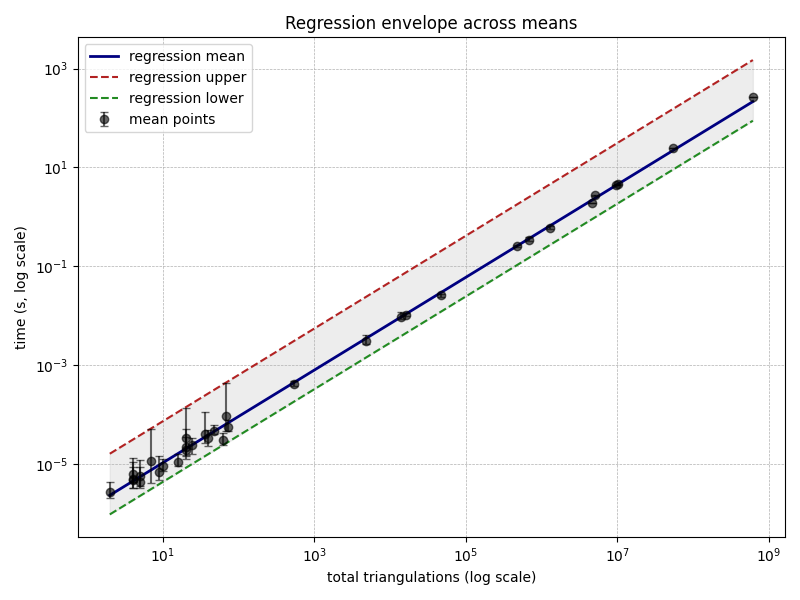
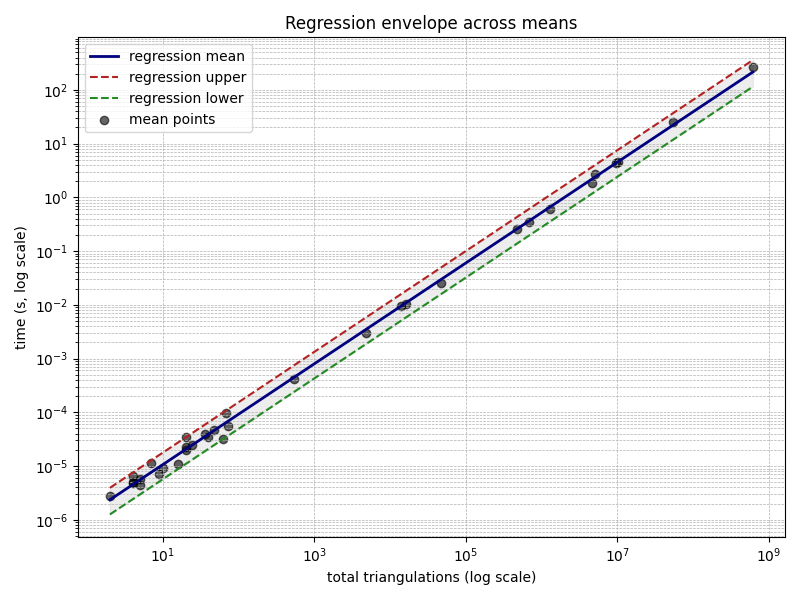
regression lines fixed

diff --git a/time_complexity/plot_results.py b/time_complexity/plot_results.py
@@ -143,21 +143,18 @@ def main():
     logx_sorted = np.log10(xs_sorted)
     y_pred = 10 ** (fit_fn(logx_sorted))
 
-    # compute envelope ratios using actual min/max times (avoids zero/negative values)
-    # we compare each observed value to the regression prediction at that x
-    ratios_upper = []
-    ratios_lower = []
-    for xi, mi, ma in zip(df['triangFloat'].values, df['minTime'].values, df['maxTime'].values):
+    # compute envelope ratios using only the mean times
+    # the upper and lower regression lines will simply enclose all mean points
+    ratios = []
+    for xi, yi in zip(df['triangFloat'].values, df['meanTime'].values):
         pred = 10 ** (fit_fn(np.log10(xi)))
         if pred > 0:
-            ratios_upper.append(ma / pred)
-            # ensure we don't include non-positive ratios which would collapse to axis
-            rlow = mi / pred
-            if rlow > 0:
-                ratios_lower.append(rlow)
-    max_ratio = max(ratios_upper) if ratios_upper else 1.0
-    # if all min ratios were non-positive fallback to 1.0 (i.e. use mean line)
-    min_ratio = min(ratios_lower) if ratios_lower else 1.0
+            ratios.append(yi / pred)
+    if ratios:
+        max_ratio = max(ratios)
+        min_ratio = min(ratios)
+    else:
+        max_ratio = min_ratio = 1.0
 
     upper_vals = y_pred * max_ratio
     lower_vals = y_pred * min_ratio
@@ -169,10 +166,8 @@ def main():
     plt.plot(xs_sorted, lower_vals, label='regression lower', color='forestgreen', linestyle='--', linewidth=1.5)
     # fill region between upper and lower with light color
     plt.fill_between(xs_sorted, lower_vals, upper_vals, color='lightgray', alpha=0.4)
-    # overlay actual mean points with error bars
-    yerr_lower = df['meanTime'] - df['minTime']
-    yerr_upper = df['maxTime'] - df['meanTime']
-    plt.errorbar(df['triangFloat'], df['meanTime'], yerr=[yerr_lower, yerr_upper], fmt='o', color='black', alpha=0.6, capsize=3, label='mean points')
+    # overlay actual mean points (no error bars)
+    plt.scatter(df['triangFloat'], df['meanTime'], color='black', alpha=0.6, label='mean points')
     plt.xscale('log'); plt.yscale('log')
     plt.xlabel('total triangulations (log scale)')
     plt.ylabel('time (s, log scale)')